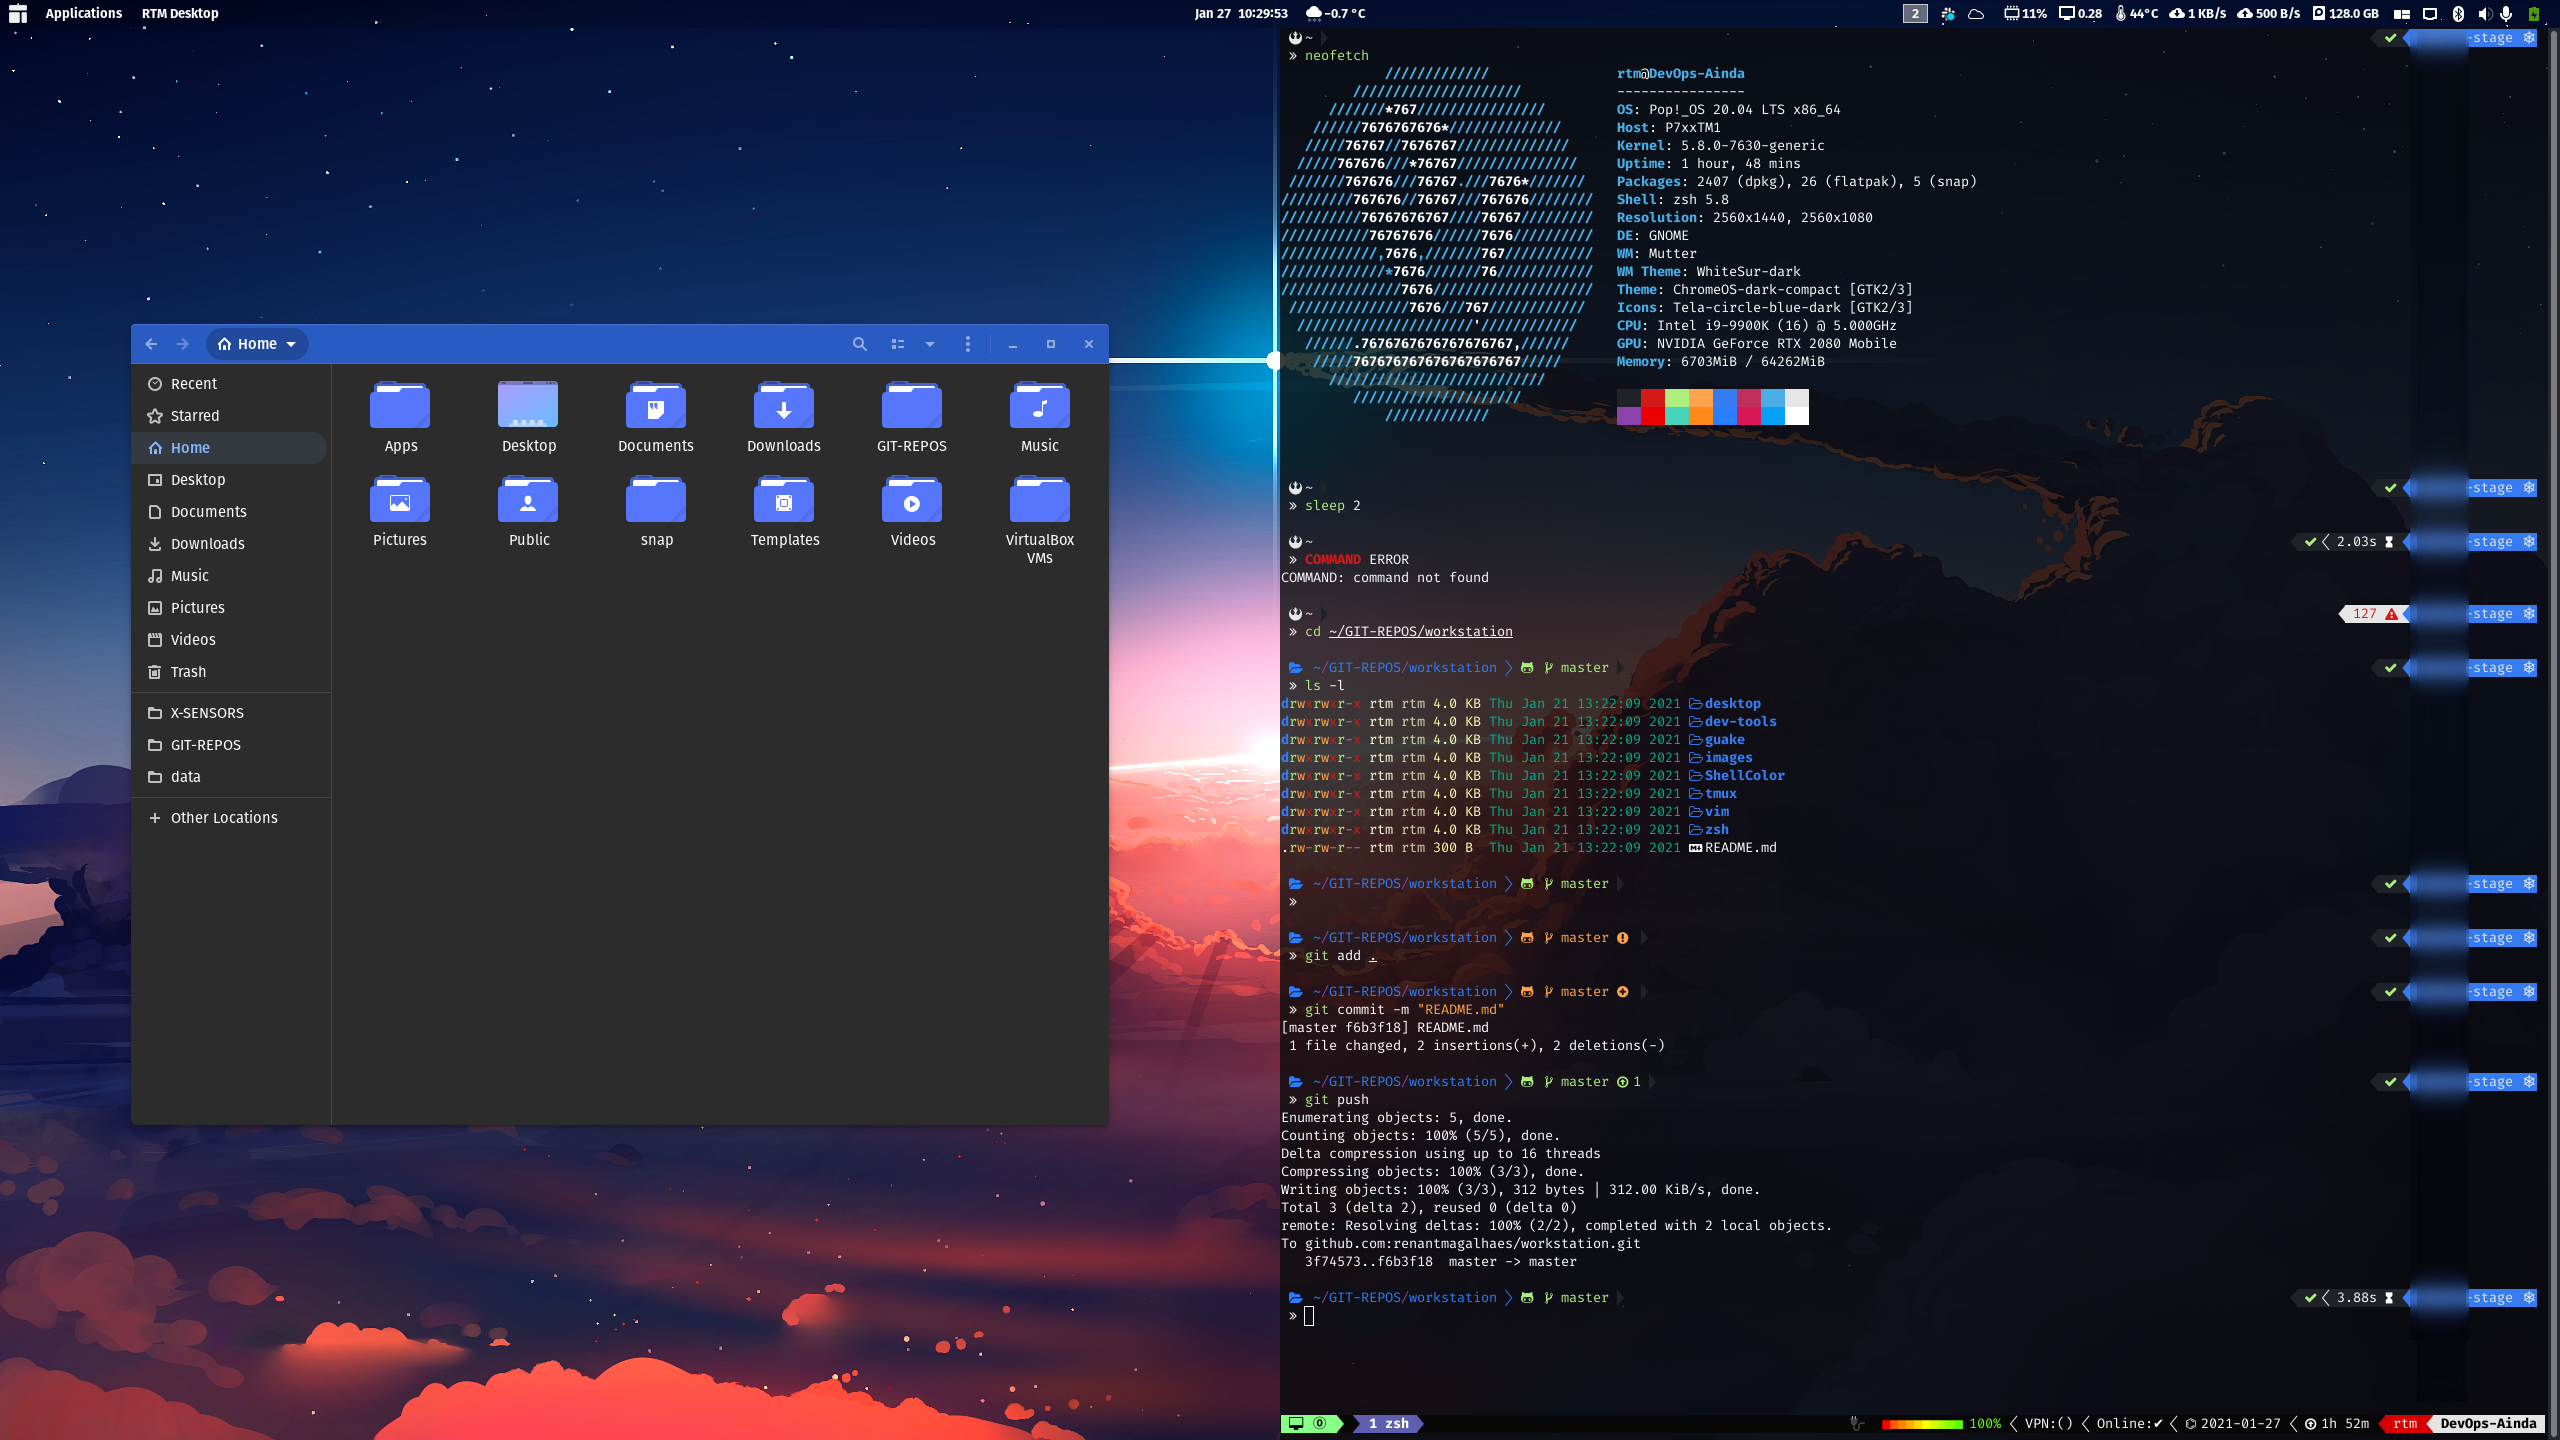
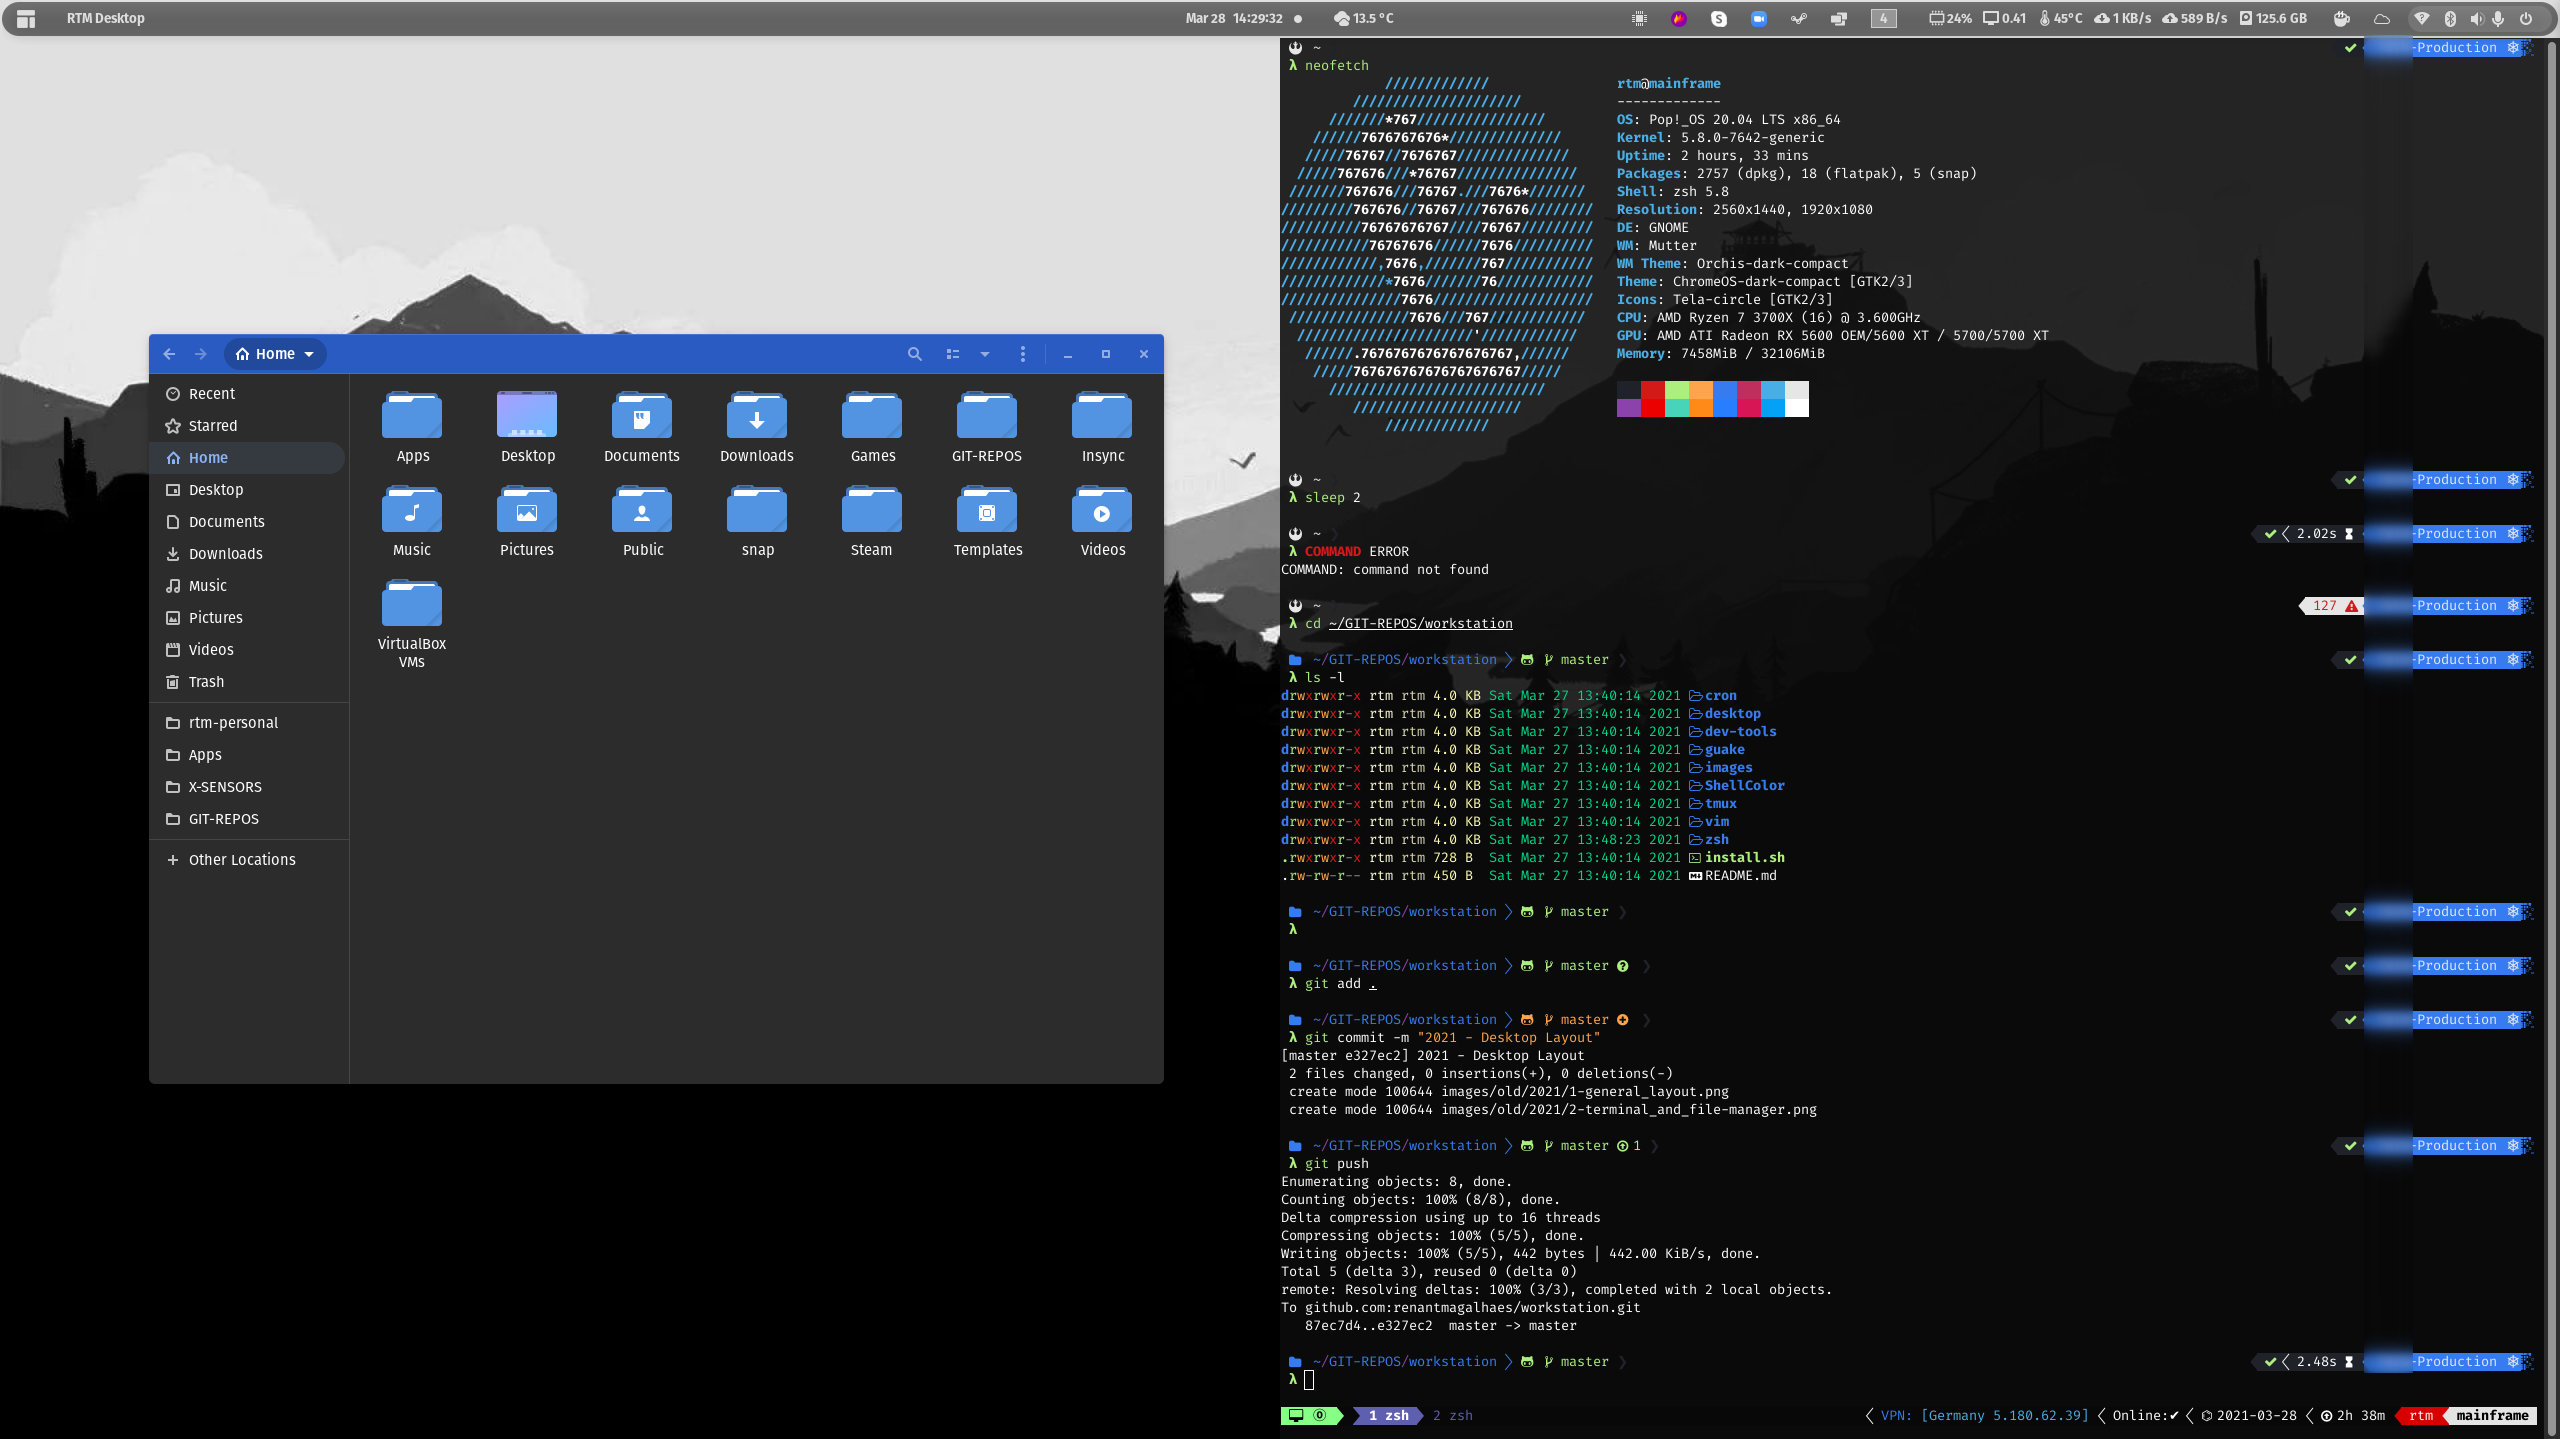
2021 - Desktop Layout

diff --git a/README.md b/README.md
@@ -7,3 +7,5 @@ Use the script ``install.sh`` and run all modules, running the scripts directly 
 ![1-general_layout.png](https://raw.githubusercontent.com/renantmagalhaes/workstation/master/images/1-general_layout.png)
 
 ![2-terminal_and_file-manager.png](https://raw.githubusercontent.com/renantmagalhaes/workstation/master/images/2-terminal_and_file-manager.png)
+
+![3-Tiling_window.png](https://raw.githubusercontent.com/renantmagalhaes/workstation/master/images/3-Tiling_window.png)
